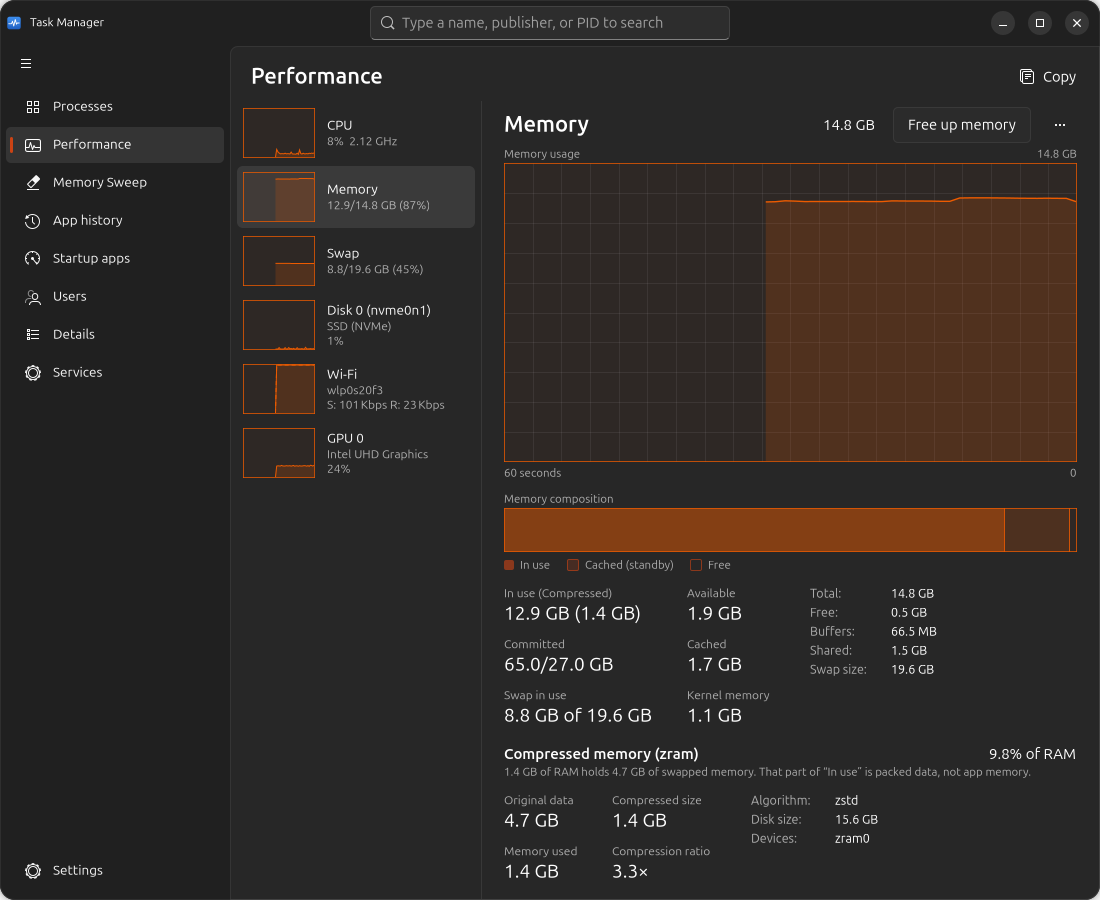
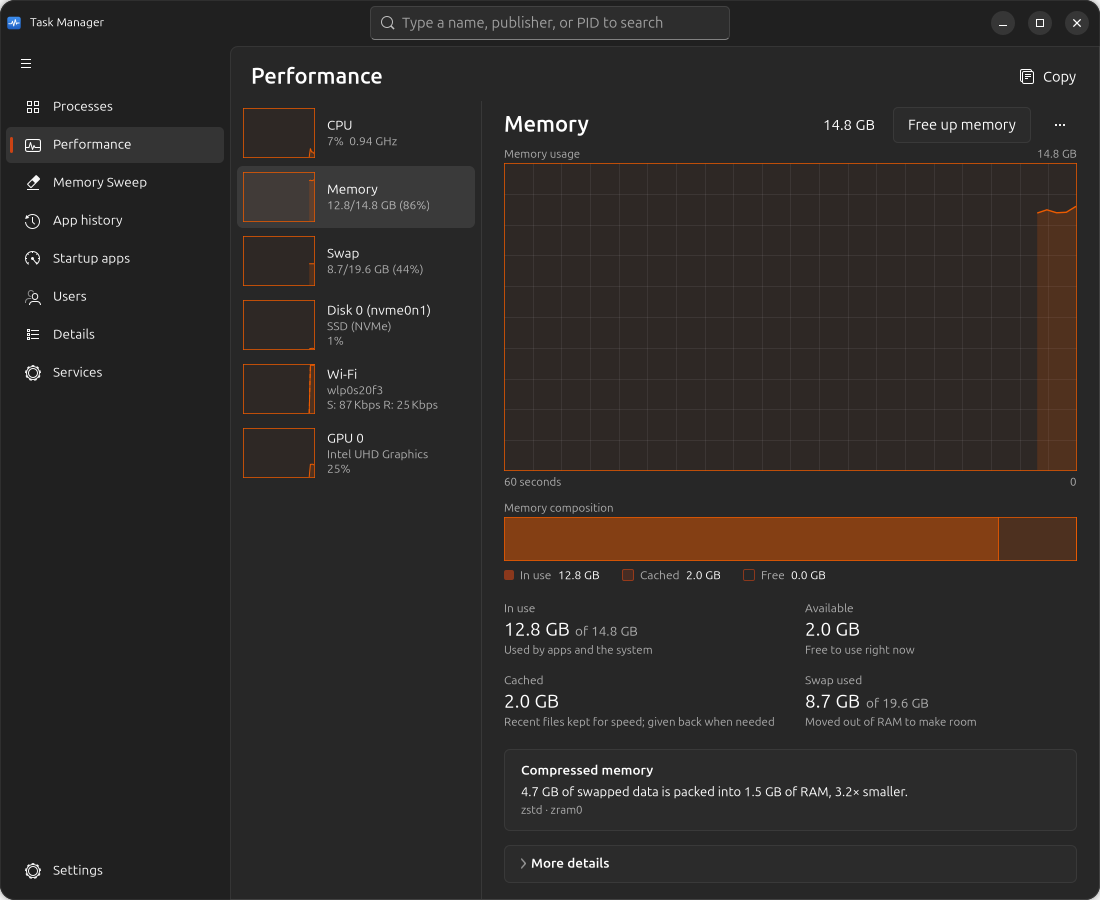
Task Manager 0.2.1: simpler Memory view, page actions
- Memory view: legend with values, four plain numbers with hints, one
  sentence for zram, the rest under a collapsed More details.
- Desktop actions for Memory, Swap, Memory Sweep, Files in memory and
  Memory optimization (used by Fusion Desk).

diff --git a/src/harbor/taskmgr_pages.py b/src/harbor/taskmgr_pages.py
@@ -310,6 +310,19 @@ class MemoryDevice(Device):
     kind = "memory"
     graph_caption = "Memory usage"
 
+    # (key, title, hint) of the four big numbers under the composition bar
+    MAIN = (("used", "In use", "Used by apps and the system"),
+            ("avail", "Available", "Free to use right now"),
+            ("cached", "Cached", "Recent files kept for speed; given back when needed"),
+            ("swap", "Swap used", "Moved out of RAM to make room"))
+    # More details: two label/value columns
+    MORE_L = (("total", "Total"), ("committed", "Promised to apps"),
+              ("kernel", "Kernel memory"), ("buffers", "Buffers"), ("shared", "Shared"))
+    MORE_R = (("swaptotal", "Swap size"), ("zcompr", "Compressed size"),
+              ("zused", "zram RAM used"), ("zdisk", "zram disk size"),
+              ("zshare", "zram share of RAM"))
+    ZRAM_KEYS = ("zcompr", "zused", "zdisk", "zshare")
+
     def __init__(self, page):
         super().__init__(page, "memory", "Memory")
 
@@ -322,28 +335,24 @@ class MemoryDevice(Device):
         v.append(cap)
         self.bar = CompositionBar(height=44)
         v.append(self.bar)
-        legend = Gtk.Box(spacing=16, margin_top=6)
-        for cls, text in (("hb-tm-legend-solid", "In use"),
-                          ("hb-tm-legend-cached", "Cached (standby)"),
-                          ("hb-tm-legend-free", "Free")):
+        legend = Gtk.Box(spacing=22, margin_top=7)
+        self.legend = {}
+        for key, cls, text in (("used", "hb-tm-legend-solid", "In use"),
+                               ("cached", "hb-tm-legend-cached", "Cached"),
+                               ("free", "hb-tm-legend-free", "Free")):
             b = Gtk.Box(spacing=6)
             b.append(Gtk.Box(css_classes=["hb-tm-legend", cls], valign=Gtk.Align.CENTER))
-            b.append(label(text, "hb-tm-axis"))
+            b.append(label(text, "hb-tm-legend-name"))
+            val = label("—", "hb-tm-legend-value")
+            b.append(val)
             legend.append(b)
+            self.legend[key] = (text, val)
         v.append(legend)
 
     def build_stats(self, s):
-        s.add_big("used", "In use (Compressed)", 0, 0)
-        s.add_big("avail", "Available", 1, 0)
-        s.add_big("committed", "Committed", 0, 1)
-        s.add_big("cached", "Cached", 1, 1)
-        s.add_big("swap", "Swap in use", 0, 2)
-        s.add_big("kernel", "Kernel memory", 1, 2)
-        s.add_kv("total", "Total")
-        s.add_kv("free", "Free")
-        s.add_kv("buffers", "Buffers")
-        s.add_kv("shared", "Shared")
-        s.add_kv("swaptotal", "Swap size")
+        # The generic StatBlock is not used here; build_after lays out the
+        # simpler memory view.
+        s.box.set_visible(False)
 
     def extend_head(self, head):
         b = Gtk.Button(label="Free up memory", css_classes=["hb-plain"],
@@ -352,27 +361,83 @@ class MemoryDevice(Device):
         b.connect("clicked", lambda *_: self.page.win.show_page("sweep"))
         head.append(b)
 
+    def _big(self, key, title, hint):
+        cell = Gtk.Box(orientation=Gtk.Orientation.VERTICAL, spacing=1, hexpand=True)
+        cell.append(label(title, "hb-tm-stat-label"))
+        row = Gtk.Box(spacing=5)
+        val = label("—", "hb-tm-stat-value", valign=Gtk.Align.BASELINE_FILL)
+        of = label("", "hb-tm-stat-of", valign=Gtk.Align.BASELINE_FILL)
+        of.set_visible(False)
+        row.append(val)
+        row.append(of)
+        cell.append(row)
+        h = label(hint, "hb-tm-stat-hint", wrap=True, margin_top=2)
+        h.set_wrap_mode(Pango.WrapMode.WORD_CHAR)
+        h.set_max_width_chars(28)
+        cell.append(h)
+        self.main[key] = (title, val, of)
+        return cell
+
     def build_after(self, v):
-        """Compressed memory (zram): RAM that holds swapped pages, packed."""
-        self.zram_box = Gtk.Box(orientation=Gtk.Orientation.VERTICAL, margin_top=18)
-        top = Gtk.Box(spacing=8)
-        top.append(label("Compressed memory (zram)", "hb-tm-perf-sub", hexpand=True))
-        self.zram_model = label("", "hb-tm-perf-model", xalign=1)
-        top.append(self.zram_model)
-        self.zram_box.append(top)
-        self.zram_line = label("", "hb-tm-axis", margin_top=2, wrap=True)
+        self.main = {}
+        # four big numbers: two pairs in a flow box, so they sit in one row
+        # when there is room and fold to 2x2 when the window is narrow
+        flow = Gtk.FlowBox(selection_mode=Gtk.SelectionMode.NONE, homogeneous=True,
+                           min_children_per_line=1, max_children_per_line=2,
+                           column_spacing=28, row_spacing=16, margin_top=18,
+                           css_classes=["hb-tm-flat"])
+        for pair in (self.MAIN[:2], self.MAIN[2:]):
+            pb = Gtk.Box(spacing=28, homogeneous=True)
+            for key, title, hint in pair:
+                pb.append(self._big(key, title, hint))
+            flow.append(pb)
+        for child in (flow.get_child_at_index(0), flow.get_child_at_index(1)):
+            child.set_focusable(False)
+        v.append(flow)
+
+        # zram: one short plain-language card
+        self.zram_box = Gtk.Box(orientation=Gtk.Orientation.VERTICAL, spacing=3,
+                                margin_top=20, css_classes=["hb-tm-mem-card"])
+        self.zram_box.append(label("Compressed memory", "hb-tm-mem-card-title"))
+        self.zram_line = label("", "hb-tm-mem-card-text", wrap=True, margin_top=2)
+        self.zram_line.set_wrap_mode(Pango.WrapMode.WORD_CHAR)
         self.zram_box.append(self.zram_line)
-        z = self.zram_stats = StatBlock()
-        z.add_big("orig", "Original data", 0, 0)
-        z.add_big("compr", "Compressed size", 1, 0)
-        z.add_big("mem_used", "Memory used", 0, 1)
-        z.add_big("ratio", "Compression ratio", 1, 1)
-        z.add_kv("algo", "Algorithm")
-        z.add_kv("disksize", "Disk size")
-        z.add_kv("devices", "Devices")
-        self.zram_box.append(z.box)
+        self.zram_meta = label("", "hb-tm-stat-hint")
+        self.zram_box.append(self.zram_meta)
         self.zram_box.set_visible(False)
         v.append(self.zram_box)
+
+        # everything else, collapsed
+        self.more_vals = {}
+        cols = Gtk.Box(spacing=40, margin_top=10, margin_start=16, homogeneous=True)
+        self.more_rows = {}
+        for spec in (self.MORE_L, self.MORE_R):
+            g = Gtk.Grid(column_spacing=20, row_spacing=5, valign=Gtk.Align.START)
+            for i, (key, title) in enumerate(spec):
+                k = label(title, "hb-tm-kv-label")
+                val = label("—", "hb-tm-kv-value", xalign=0, hexpand=True,
+                            ellipsize=Pango.EllipsizeMode.END)
+                g.attach(k, 0, i, 1, 1)
+                g.attach(val, 1, i, 1, 1)
+                self.more_vals[key] = (title, val)
+                self.more_rows[key] = (k, val)
+            cols.append(g)
+        self.more = Gtk.Expander(child=cols, css_classes=["hb-tm-more"])
+        self.more.set_label_widget(label("More details", "hb-tm-mem-card-title"))
+        card = Gtk.Box(orientation=Gtk.Orientation.VERTICAL, margin_top=14,
+                       css_classes=["hb-tm-mem-card", "hb-tm-more-card"])
+        card.append(self.more)
+        v.append(card)
+
+    def _set(self, lbl, text):
+        if lbl.get_label() != text:
+            lbl.set_label(text)
+
+    def _set_main(self, key, value, of=""):
+        _t, val, ofl = self.main[key]
+        self._set(val, value)
+        self._set(ofl, of)
+        ofl.set_visible(bool(of))
 
     def _zram(self):
         """(original, compressed, memory used) bytes over all zram devices."""
@@ -383,28 +448,43 @@ class MemoryDevice(Device):
     def _update_zram(self, tot):
         zs = self.sys.zram
         self.zram_box.set_visible(bool(zs))
+        for key in self.ZRAM_KEYS:
+            for w in self.more_rows[key]:
+                w.set_visible(bool(zs))
         if not zs:
             return
         orig, comp, used = self._zram()
-        z = self.zram_stats
-        z.set("orig", human_size(orig))
-        z.set("compr", human_size(comp))
-        z.set("ratio", "%.1f\u00d7" % (orig / comp) if comp else "—")
-        z.set("mem_used", human_size(used))
-        z.set("algo", ", ".join(sorted({d["algo"] or "—" for d in zs})))
-        z.set("disksize", gb(sum(d["disksize"] for d in zs)))
-        z.set("devices", ", ".join(d["name"] for d in zs))
-        self.zram_model.set_label("%.1f%% of RAM" % (100 * used / tot))
-        self.zram_line.set_label(
-            "%s of RAM holds %s of swapped memory. That part of \u201cIn use\u201d is "
-            "packed data, not app memory." % (human_size(used), human_size(orig))
-            if orig else "zram is ready but holds nothing yet.")
+        if orig and used:
+            text = ("%s of swapped data is packed into %s of RAM, %.1f× smaller."
+                    % (human_size(orig), human_size(used), orig / used))
+        else:
+            text = "Ready to use. Nothing is packed yet."
+        self._set(self.zram_line, text)
+        algos = sorted({d["algo"] for d in zs if d["algo"]})
+        self._set(self.zram_meta, " · ".join(algos + [d["name"] for d in zs]))
+        mv = self.more_vals
+        self._set(mv["zcompr"][1], human_size(comp))
+        self._set(mv["zused"][1], human_size(used))
+        self._set(mv["zdisk"][1], gb(sum(d["disksize"] for d in zs)))
+        self._set(mv["zshare"][1], "%.1f%%" % (100 * used / tot))
 
     def copy_text(self):
-        text = super().copy_text()
-        if self.view is not None and self.sys.zram:
-            text += "\nCompressed memory (zram)\n" + self.zram_stats.text()
-        return text
+        if self.view is None:
+            return "%s\n" % self.name
+        lines = [self.name, self.model.get_label()]
+        lines += ["%s: %s" % (t, v.get_label()) for t, v in self.legend.values()]
+        for key, _title, _hint in self.MAIN:
+            t, val, of = self.main[key]
+            lines.append("%s: %s" % (t, " ".join(x for x in (val.get_label(),
+                                                             of.get_label()) if x)))
+        zram = bool(self.sys.zram)
+        if zram:
+            lines += ["Compressed memory: " + self.zram_line.get_label(),
+                      "Compressed memory: " + self.zram_meta.get_label()]
+        for key, (t, v) in self.more_vals.items():
+            if zram or key not in self.ZRAM_KEYS:
+                lines.append("%s: %s" % (t, v.get_label()))
+        return "\n".join(lines)
 
     def update_row(self):
         m = self.sys.mem_summary()
@@ -415,24 +495,30 @@ class MemoryDevice(Device):
 
     def update_view(self):
         m = self.sys.mem_summary()
-        s = self.stats
         tot = m["total"] or 1
         self.model.set_label(gb(tot))
         self.top_r.set_label(gb(tot))
         self.graph.set_series(self.sys.mem_hist)
         self.bar.set_parts(m["used"] / tot, m["cached"] / tot)
-        orig, comp, zused = self._zram()
-        s.set("used", "%s (%s)" % (gb(m["used"]), human_size(zused)) if zused else gb(m["used"]))
-        s.set("avail", gb(m["available"]))
-        s.set("committed", "%.1f/%.1f GB" % (m["committed"] / GB, m["commit_limit"] / GB))
-        s.set("cached", gb(m["cached"]))
-        s.set("swap", "%s of %s" % (gb(m["swap_used"]), gb(m["swap_total"])))
-        s.set("kernel", human_size(m["kernel"]))
-        s.set("total", gb(tot))
-        s.set("free", gb(m["free"]))
-        s.set("buffers", human_size(m["buffers"]))
-        s.set("shared", human_size(m["shmem"]))
-        s.set("swaptotal", gb(m["swap_total"]))
+        # legend matches the bar: used, cached, and what is left
+        used = min(m["used"], tot)
+        cached = min(m["cached"], tot - used)
+        self._set(self.legend["used"][1], gb(used))
+        self._set(self.legend["cached"][1], gb(cached))
+        self._set(self.legend["free"][1], gb(max(0, tot - used - cached)))
+        self._set_main("used", gb(m["used"]), "of " + gb(tot))
+        self._set_main("avail", gb(m["available"]))
+        self._set_main("cached", gb(m["cached"]))
+        self._set_main("swap", gb(m["swap_used"]),
+                       "of " + gb(m["swap_total"]) if m["swap_total"] else "")
+        mv = self.more_vals
+        self._set(mv["total"][1], gb(tot))
+        self._set(mv["committed"][1], "%.1f / %.1f GB" % (m["committed"] / GB,
+                                                          m["commit_limit"] / GB))
+        self._set(mv["kernel"][1], human_size(m["kernel"]))
+        self._set(mv["buffers"][1], human_size(m["buffers"]))
+        self._set(mv["shared"][1], human_size(m["shmem"]))
+        self._set(mv["swaptotal"][1], gb(m["swap_total"]))
         self._update_zram(tot)
 
 

diff --git a/src/harbor/taskmgr_ui.py b/src/harbor/taskmgr_ui.py
@@ -51,6 +51,16 @@ columnview.hb-tm > header > button:last-child { border-right: none; }
 .hb-tm-legend-cached { background: alpha(var(--accent-bg-color), 0.2);
     border: 1px solid alpha(var(--accent-bg-color), 0.6); }
 .hb-tm-legend-free { border: 1px solid alpha(var(--accent-bg-color), 0.6); }
+.hb-tm-legend-name { font-size: 12px; color: $dim; }
+.hb-tm-legend-value { font-size: 12px; font-feature-settings: "tnum"; }
+.hb-tm-stat-of { font-size: 13.5px; color: $dim; }
+.hb-tm-stat-hint { font-size: 11.5px; color: $dim; }
+flowbox.hb-tm-flat > flowboxchild { padding: 0; margin: 0; background: none; }
+.hb-tm-mem-card { background: $card; border: 1px solid $border; border-radius: 6px;
+    padding: 12px 16px 13px 16px; }
+.hb-tm-mem-card-title { font-size: 13.5px; font-weight: 600; }
+.hb-tm-mem-card-text { font-size: 13px; }
+.hb-tm-more-card { padding: 9px 14px 10px 10px; }
 .hb-tm-pane { background: $card; border: 1px solid $border; border-radius: 6px; }
 .hb-tm-empty { color: $dim; font-size: 13px; }
 .hb-tm-dialog-key { color: $dim; }

diff --git a/src/harbor/__init__.py b/src/harbor/__init__.py
@@ -1,3 +1,3 @@
 """Harbor: Windows 11-style Files, Settings and Task Manager for GNOME."""
 
-VERSION = "0.2.0"
+VERSION = "0.2.1"

diff --git a/README.md b/README.md
@@ -31,7 +31,7 @@ Download `harbor_<version>_all.deb` from the
 [releases](https://github.com/Hafij-DEU/harbor/releases) and run:
 
 ```bash
-sudo apt install ./harbor_0.2.0_all.deb
+sudo apt install ./harbor_0.2.1_all.deb
 ```
 
 Then open **Harbor Task Manager** from the app menu, or run `harbor-taskmgr`
